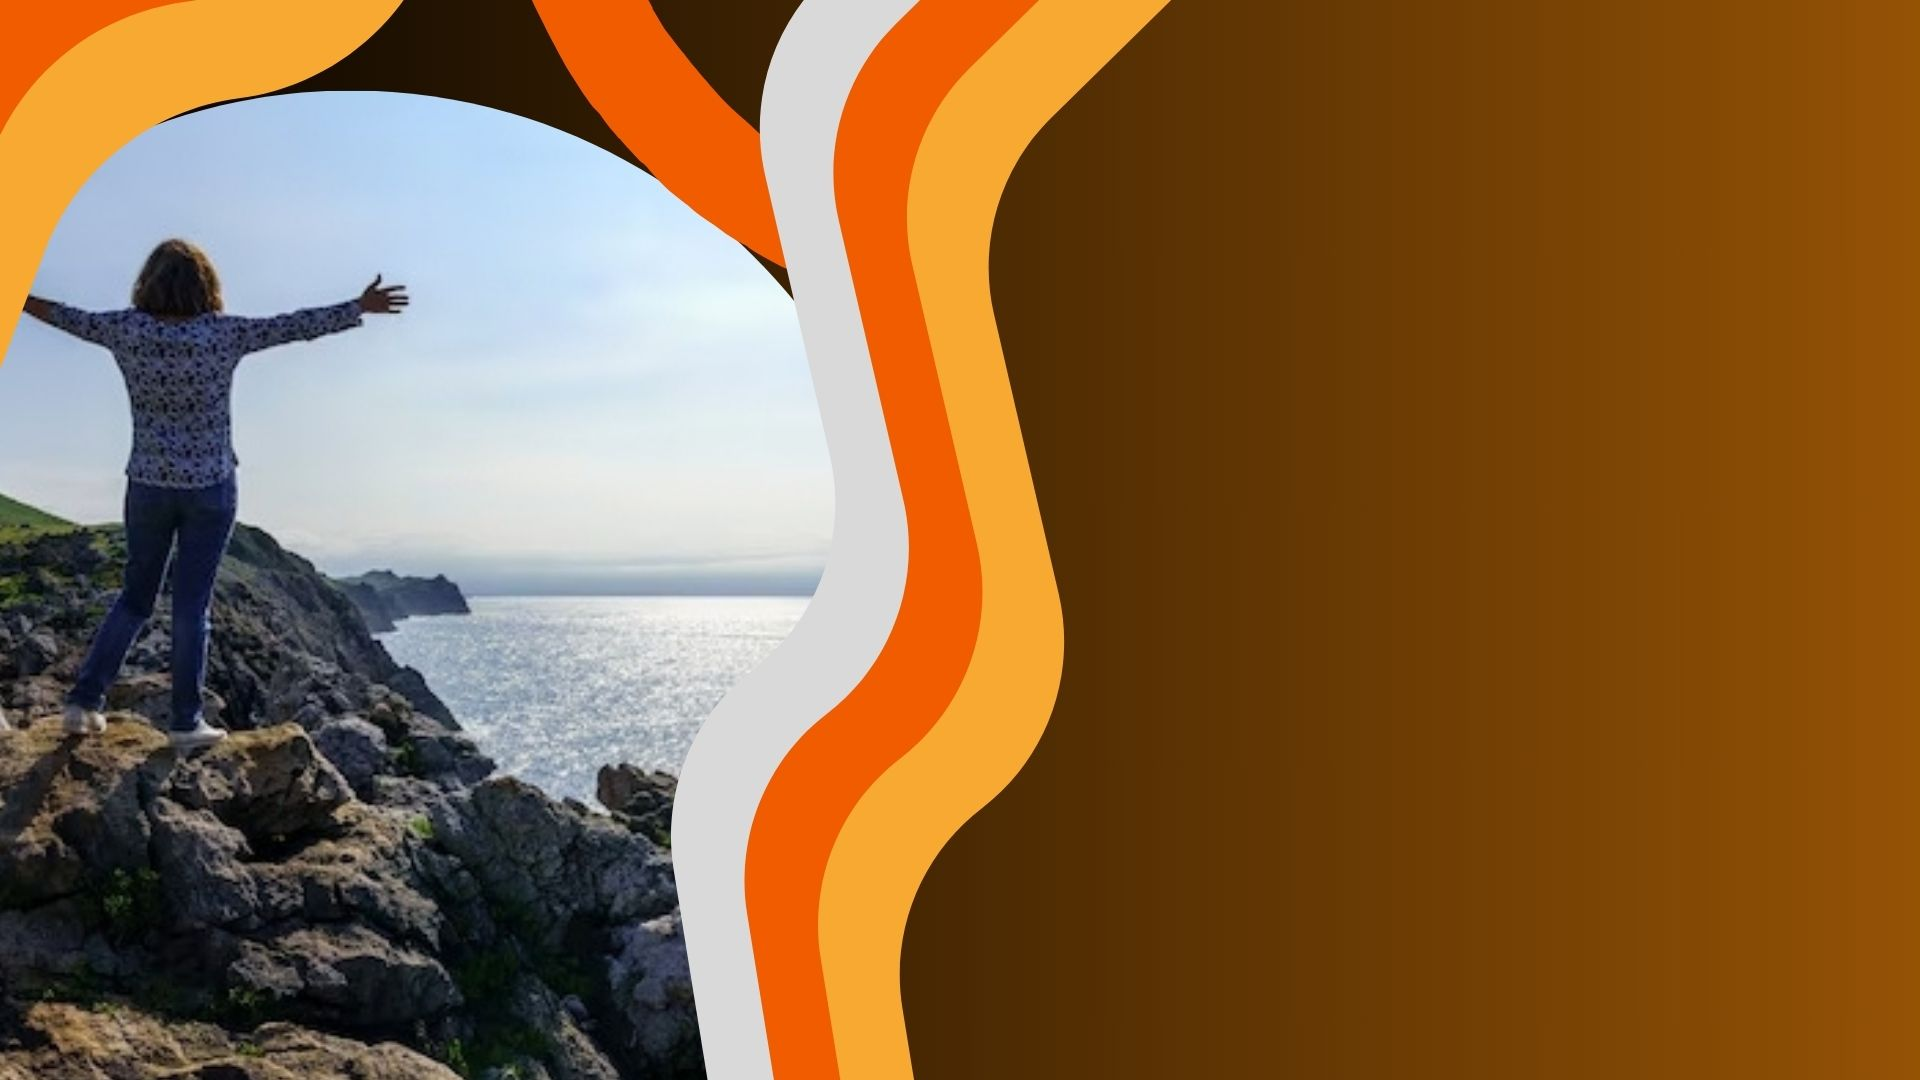
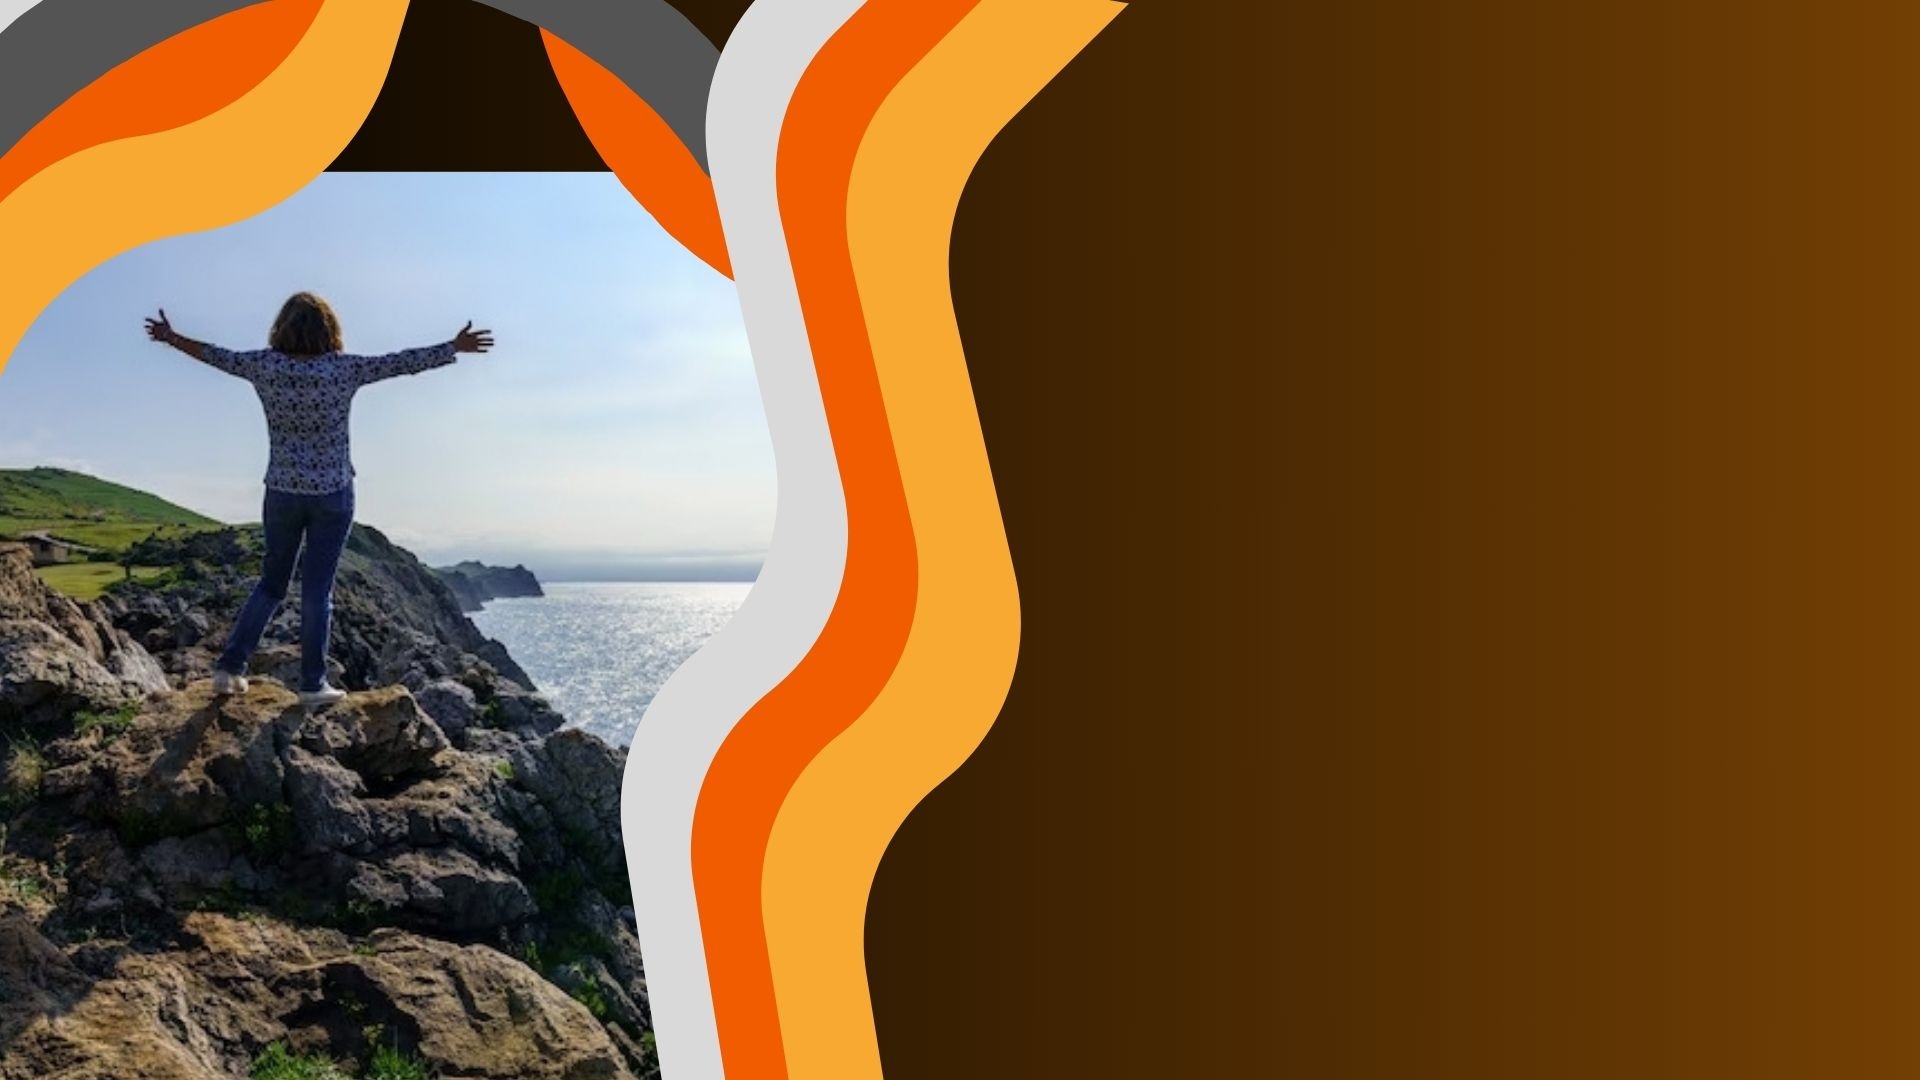
Add files via upload

diff --git a/Adventure.html b/Adventure.html
@@ -7,6 +7,22 @@
     <title>Adventure</title>
 </head>
 <body>
-    <img src="aventura.jpg">
+    <div class="menu">
+        <h1>Your Logo</h1>
+        <div class="Lista">
+         <center>
+        <ul class="lista">
+            <li> HOME </li>
+            <li> ABOUT US </li>
+            <li> SERVICES </li>
+            <li> CONTACT US </li>
+         </center>
+        </div>
+    </div>
+           <div class="texto">
+             <h2>&nbsp;&nbsp;&nbsp;&nbsp;&nbsp;&nbsp;&nbsp;&nbsp;LET'S START THE&nbsp;ADVENTURE</h2>
+             <p>Lorem ipsum dolor sit amet, consectetur adipiscing elit. Maecenas vitae laoreet lacus, a posuere sem. In vel tellus in urna varius consectetur. Class aptent taciti sociosqu ad litora torquent per conubia nostra, per inceptos himenaeos. Morbi facilisis vestibulum elit in rutrum. Aenean sapien tellus, dapibus ut vehicula et, rutrum a ligula. Cras ullamcorper varius rutrum. 
+             </p>
+           </div>
 </body>
 </html>

diff --git a/style.css b/style.css
@@ -2,7 +2,39 @@
     margin: 0px;
     padding: 0px;
 }
-img{
-    width: 2000px;
-    height: 1002px;
+body{
+    background-image: url(aventura.jpg);
+}
+.menu{
+      display: flex; 
+      align-items: center; 
+      height: 80px; 
+      margin-left: 50px;
+      margin-top: 50px;
+      color: white;
+}
+.lista{ 
+      list-style: none; 
+      display: flex; 
+      flex-direction: row; 
+      gap: 130px; 
+      font-size: 19px; 
+      margin-top: 100px; 
+      margin-left: 845px;
+      margin-bottom: 100px;
+      margin-right: 0px;
+      color: white;
+   }
+h2{
+    margin-top: 90px;
+    font-size: 50px;
+    margin-left: 1310px;
+    color: white;
+}
+p{
+    color: white;
+    margin-top: 30px;
+    margin-left: 1350px;
+    margin-right: 100px;
+    font-size: 13px;
 }
